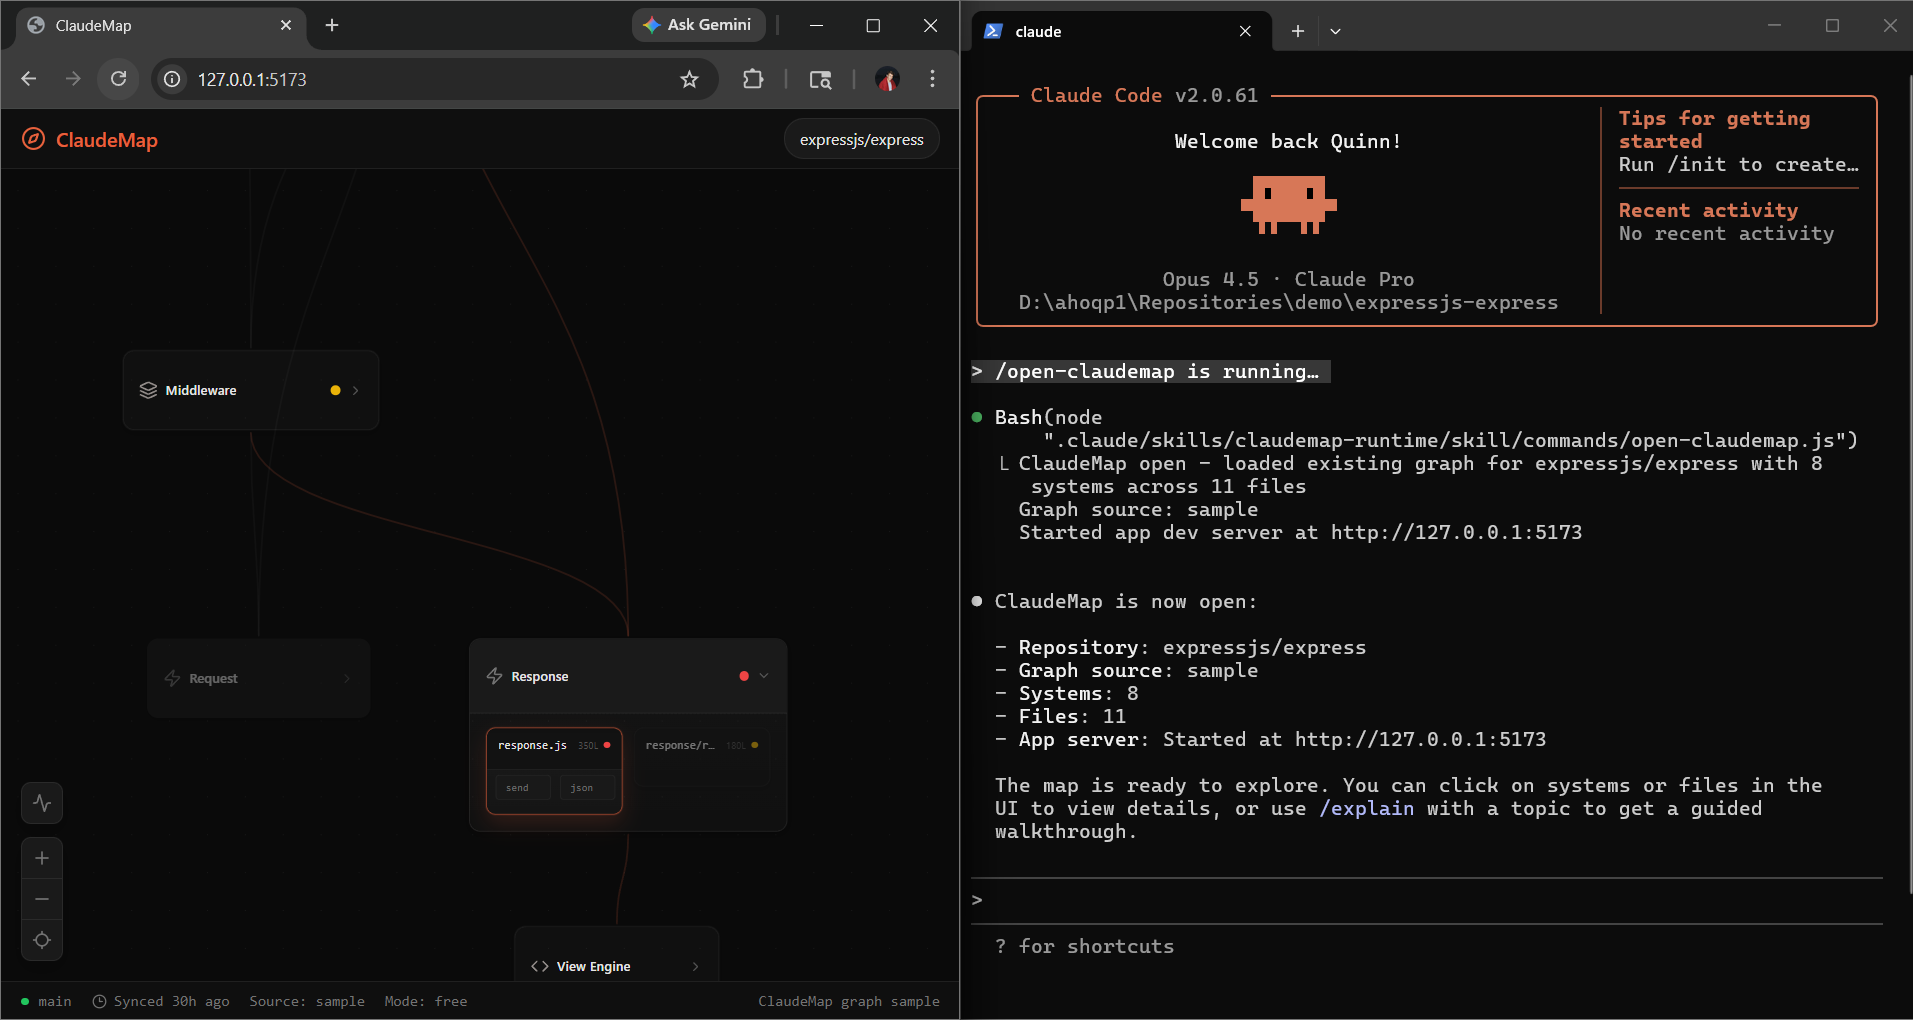
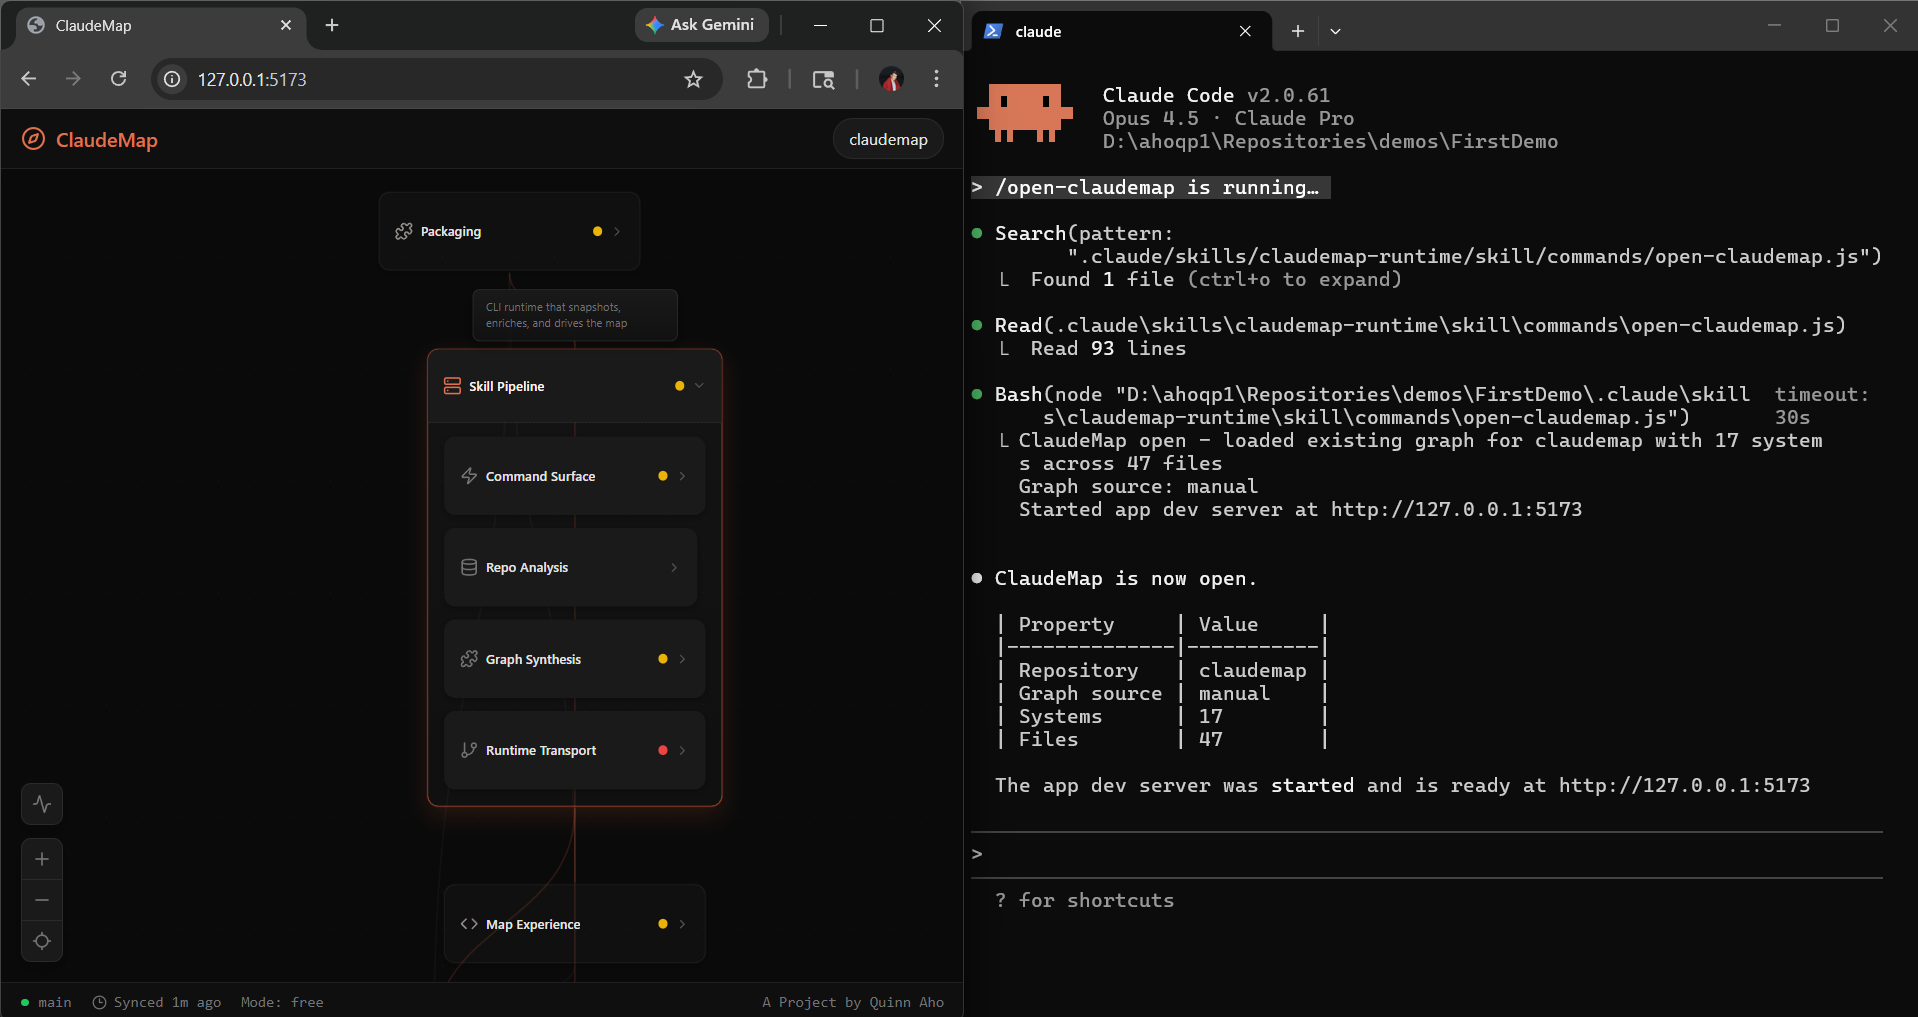
bedtime commit zzzz

diff --git a/app/src/hooks/useLayout.js b/app/src/hooks/useLayout.js
@@ -161,7 +161,17 @@ export function useLayout(zoomLevel) {
             ],
     )
     const currentTreeLayout = buildSystemTreeLayout(nodes, expandedSystemIds, fileSizeById)
-    const topLevelLayoutSignature = getGraphLayoutSignature(nodes, edges)
+    const topLevelLayoutSignature = [
+      getGraphLayoutSignature(nodes, edges),
+      zoomLevel,
+      ...topLevelSystemNodes
+        .map((node) => {
+          const topLevelSize = currentTreeLayout.sizeById.get(node.id)
+
+          return `${node.id}:${topLevelSize?.width || node.width || 0}:${topLevelSize?.height || node.height || 0}`
+        })
+        .sort(),
+    ].join('|')
     const cachedTopLevelLayout = cachedTopLevelLayoutRef.current
 
     const applyGeometry = (positionsById) => {
@@ -223,12 +233,10 @@ export function useLayout(zoomLevel) {
 
     setLayoutReady(false)
 
-    const fullyExpandedSystemIds = new Set(systemNodes.map((node) => node.id))
-    const maxTreeLayout = buildSystemTreeLayout(nodes, fullyExpandedSystemIds, maxFileSizeById)
     const sizedTopLevelNodes = topLevelSystemNodes.map((node) => ({
       ...node,
-      width: maxTreeLayout.sizeById.get(node.id)?.width || node.width,
-      height: maxTreeLayout.sizeById.get(node.id)?.height || node.height,
+      width: currentTreeLayout.sizeById.get(node.id)?.width || node.width,
+      height: currentTreeLayout.sizeById.get(node.id)?.height || node.height,
     }))
     const systemNodeIds = new Set(sizedTopLevelNodes.map((node) => node.id))
     const systemEdges = edges.filter(

diff --git a/app/src/components/graph/GraphCanvas.jsx b/app/src/components/graph/GraphCanvas.jsx
@@ -61,6 +61,7 @@ export default function GraphCanvas() {
   const { zoomLevel, onViewportChange } = useZoomLevel()
   const layoutReady = useLayout(zoomLevel)
   const graphReady = graphLoaded && layoutReady
+  const hasMountedGraphRef = useRef(false)
   const sceneInteractionLocked = presentationMode !== 'free'
   const highlightMode = presentationMode === 'free' ? 'subtle' : 'presentation'
   const leaveTimeoutRef = useRef(null)
@@ -133,6 +134,12 @@ export default function GraphCanvas() {
         return []
       }),
   )
+
+  if (graphReady) {
+    hasMountedGraphRef.current = true
+  }
+
+  const showGraph = graphReady || hasMountedGraphRef.current
 
   nodes.forEach((node) => {
     if (node.parentId) {
@@ -536,7 +543,7 @@ export default function GraphCanvas() {
 
   return (
     <div style={{ width: '100%', height: '100%', position: 'relative' }}>
-      {graphReady ? (
+      {showGraph ? (
         <>
           <ReactFlow
             nodes={styledNodes}

diff --git a/app/src/lib/layoutEngine.js b/app/src/lib/layoutEngine.js
@@ -6,9 +6,9 @@ const elk = new ELK()
 const defaultOptions = {
   'elk.algorithm': 'layered',
   'elk.direction': 'DOWN',
-  'elk.spacing.nodeNode': '80',
-  'elk.layered.spacing.nodeNodeBetweenLayers': '100',
-  'elk.padding': '[top=50,left=50,bottom=50,right=50]',
+  'elk.spacing.nodeNode': '64',
+  'elk.layered.spacing.nodeNodeBetweenLayers': '84',
+  'elk.padding': '[top=30,left=30,bottom=30,right=30]',
 }
 
 export async function computeLayout(nodes, edges) {

diff --git a/app/src/styles/globals.css b/app/src/styles/globals.css
@@ -10,7 +10,7 @@
   --text-primary: #e5e5e5;
   --text-secondary: #737373;
   --text-muted: #525252;
-  --accent: #e8613c;
+  --accent: #df714c;
   --health-green: #22c55e;
   --health-yellow: #eab308;
   --health-red: #ef4444;
